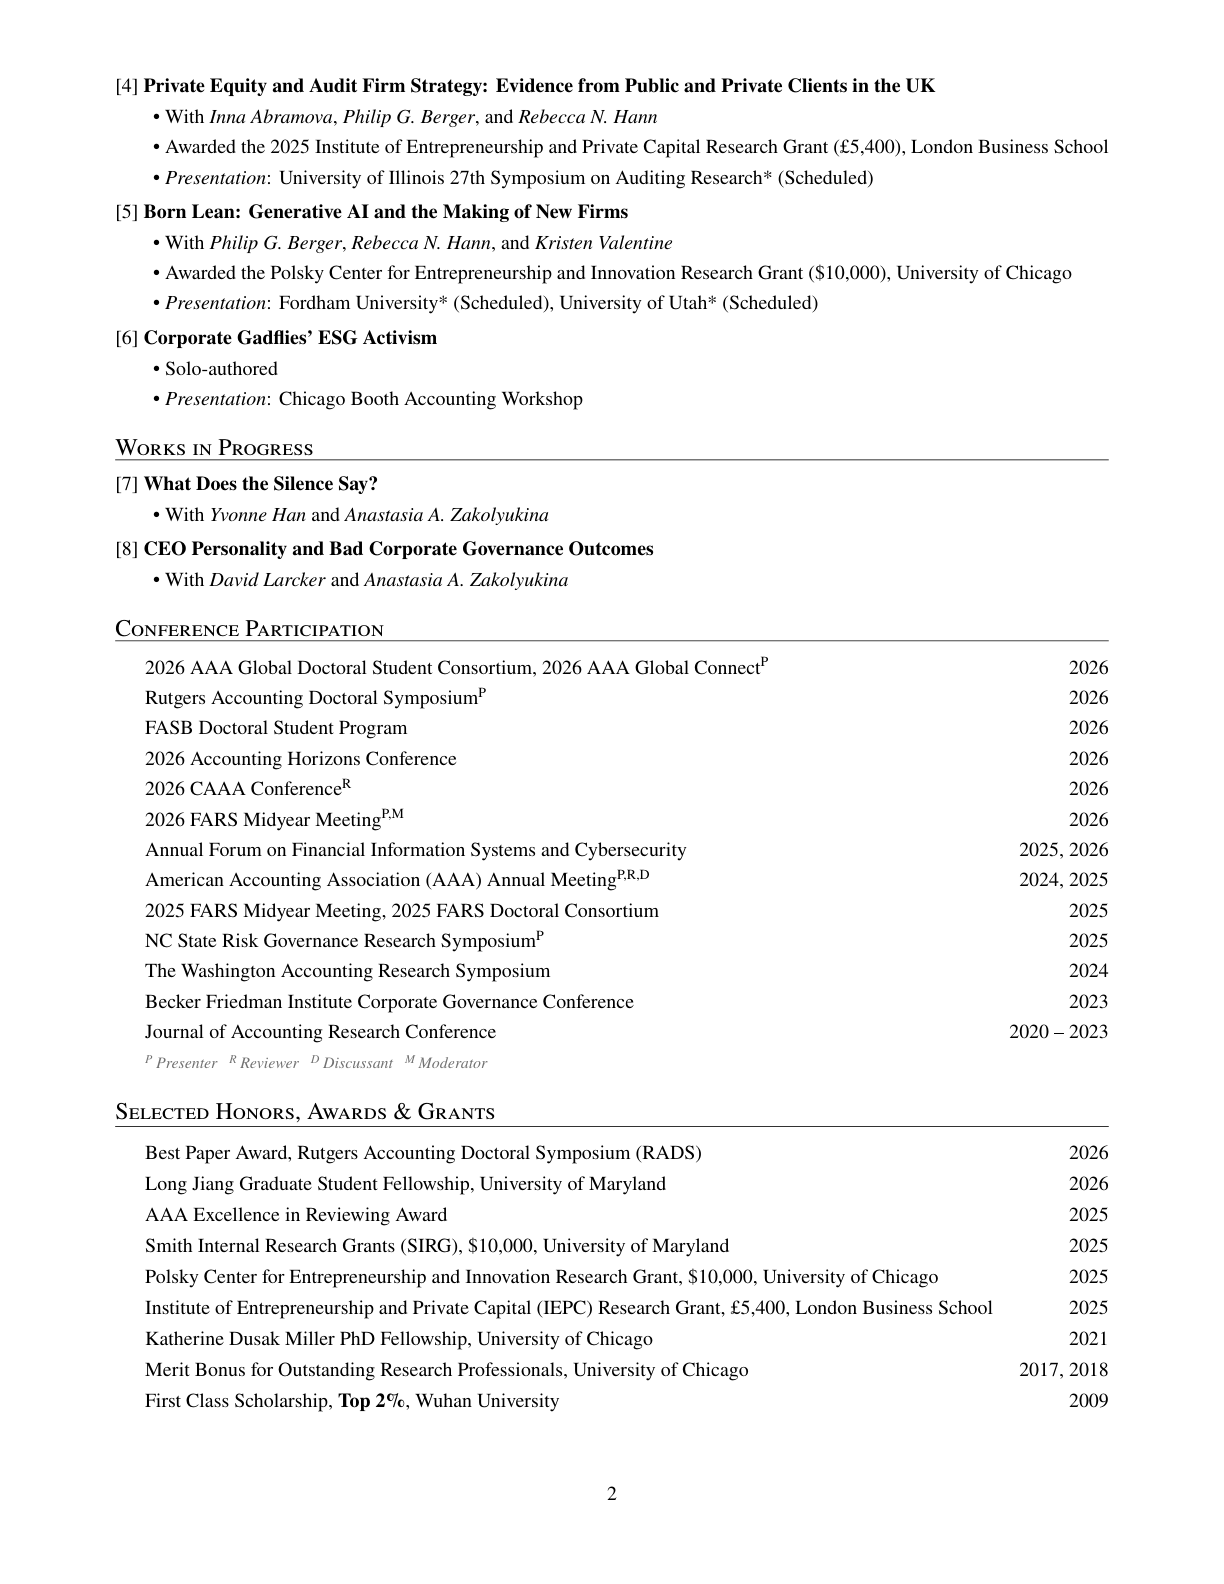
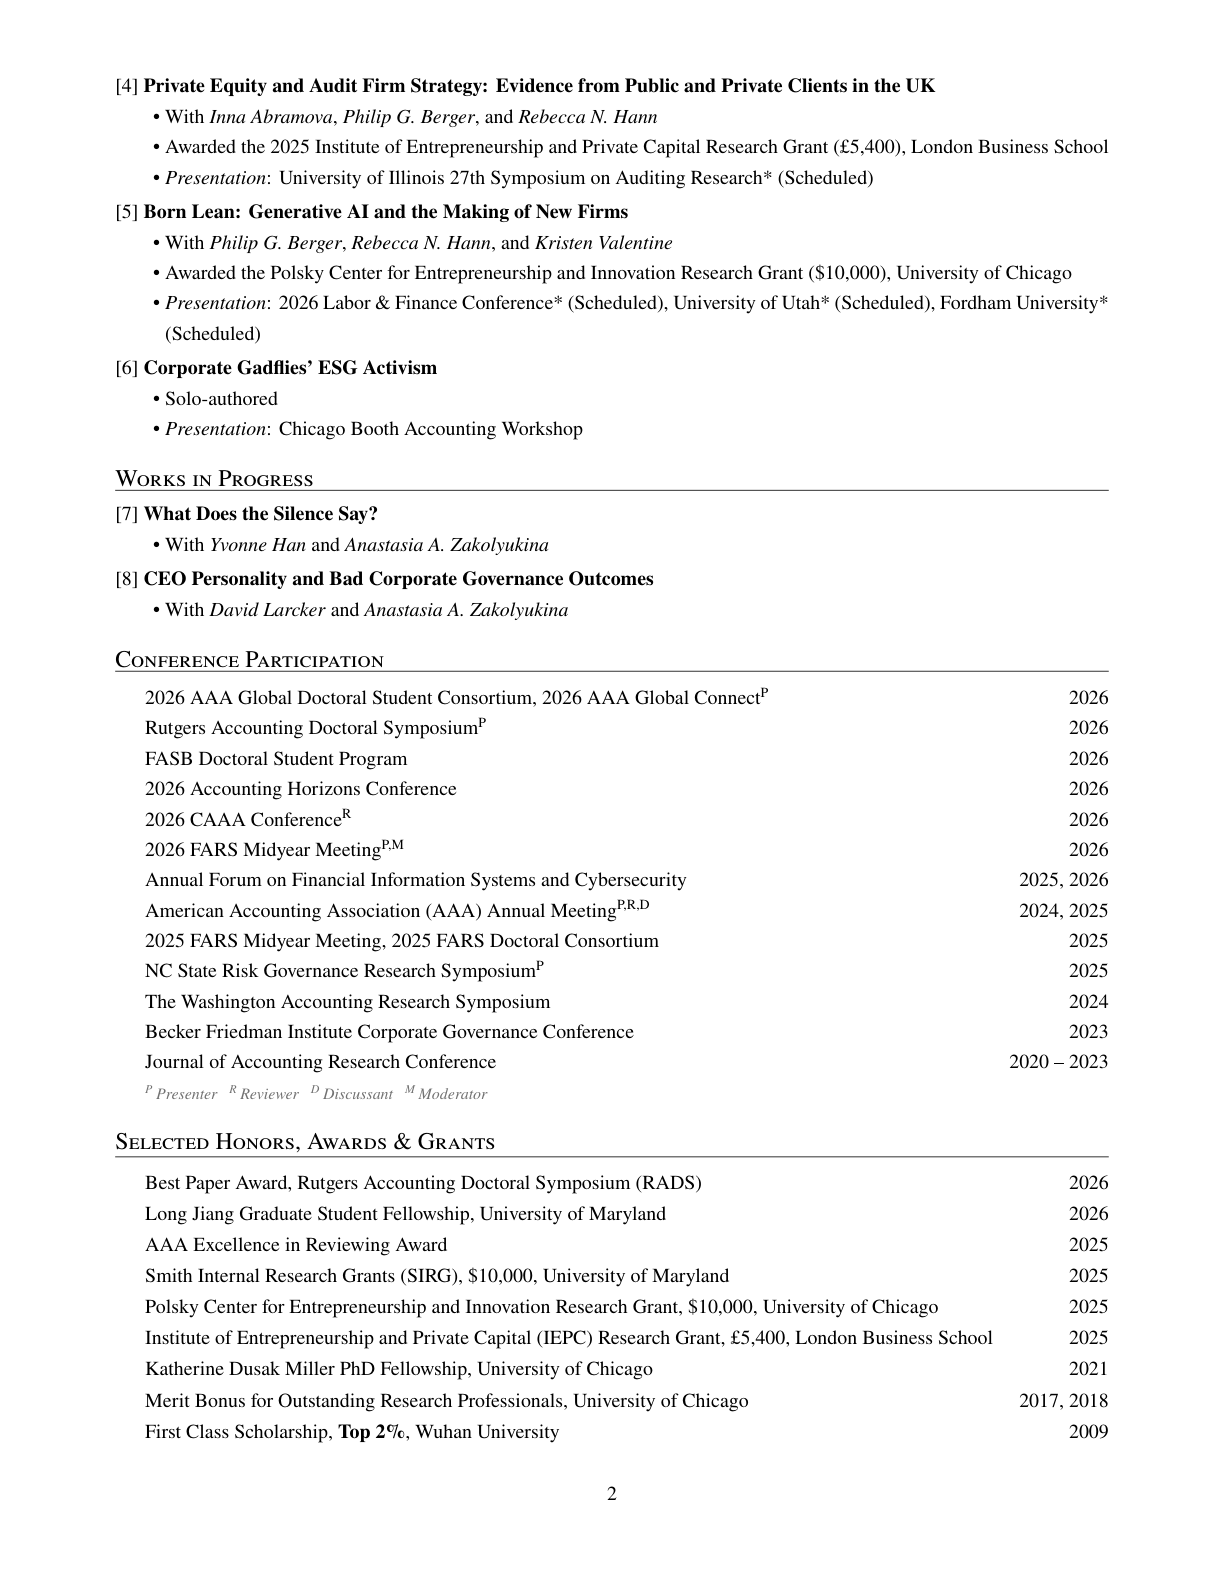
Publish the September CV
Adds the 2026 Labor & Finance Conference to paper [5], reorders Utah
ahead of Fordham, and bumps the header date to September 2026.

Claude-Session: https://claude.ai/code/session_014GESRRDHupMGCw9H9yWoZP

diff --git a/cv/index.html b/cv/index.html
@@ -485,7 +485,7 @@
       
         
           <div class="cv-page">
-            <img src="/media/cv/page-01.png?v=89cfddb5a3" alt="Curriculum vitae page 1" loading="lazy">
+            <img src="/media/cv/page-01.png?v=2f51e54f8b" alt="Curriculum vitae page 1" loading="lazy">
             
               
                 
@@ -514,7 +514,7 @@
       
         
           <div class="cv-page">
-            <img src="/media/cv/page-02.png?v=89cfddb5a3" alt="Curriculum vitae page 2" loading="lazy">
+            <img src="/media/cv/page-02.png?v=2f51e54f8b" alt="Curriculum vitae page 2" loading="lazy">
             
               
                 
@@ -525,7 +525,7 @@
       
         
           <div class="cv-page">
-            <img src="/media/cv/page-03.png?v=89cfddb5a3" alt="Curriculum vitae page 3" loading="lazy">
+            <img src="/media/cv/page-03.png?v=2f51e54f8b" alt="Curriculum vitae page 3" loading="lazy">
             
               
                 
